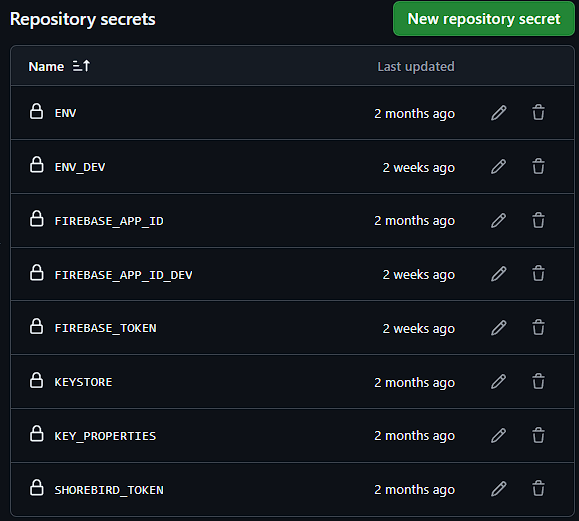
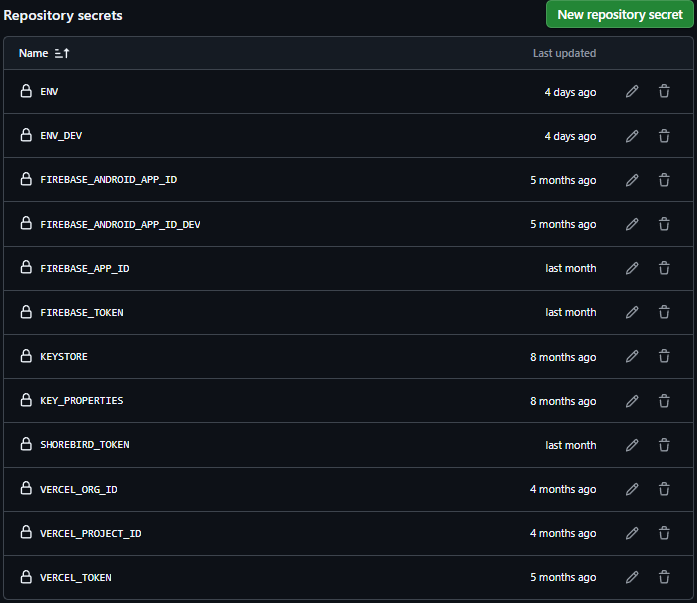
docs(readme): update development guide

Changed region(s): [[0.0, 0.0, 1.0, 1.0], [0.6528, 0.4914, 0.8705, 0.5528]]

diff --git a/README.md b/README.md
@@ -4,6 +4,10 @@ Anilist is a simple and delightful app for anime fans. Whether you're organizing
 The app offers several handy features to enhance your daily anime browsing. You can discover new anime instantly with the Random Anime feature, search anime titles easily using speech-to-text Voice Search & enjoy a comfortable night viewing with the built-in Dark Mode. Anilist also supports multiple languages, making it accessible for anime fans across the world.
 
 Anilist is built with Flutter using the Bloc pattern and integrates various Firebase services for core functionality, such as authentication, firestore, remote config, etc. Meanwhile, local storage is handled with SQFLite and Shared Preferences. Anilist is also integrated with various 3rd party service such as Jikan Moe API for anime list & shorebird for  code push.
+
+## Download & Access
+- [Play Store](https://play.google.com/store/apps/details?id=com.anilist.android)
+- [Web App](https://anilist.xrescode.my.id)
  
 ## Tech Stack
 - [Flutter](https://flutter.dev/)
@@ -19,16 +23,14 @@ Anilist is built with Flutter using the Bloc pattern and integrates various Fire
   - Messaging
   - Remote Config
   - App Distribution
-  - Hosting
 
 ## Tools
 - [GitHub](https://github.com/) - Version Control System
 - [GitHub Actions](https://github.com/features/actions) - CI/CD
-- [ClickUp](https://lowpriority.atlassian.net) - Project Management  
+- [ClickUp](https://clickup.com/) - Project Management  
   ↳ [Board](https://sharing.clickup.com/90181182112/b/h/6-901807732402-2/b7eded0a165f1b1)
 - [Postman](https://www.postman.com/) - API Collection  
   ↳ [Collection](https://www.postman.com/resdev-3827892/anilist/collection/aphktk6/jikan-moe?action=share&creator=44337202)
-
 
 ## Third-Party Integrations
 - [Jikan Moe API](https://jikan.moe/)
@@ -41,11 +43,12 @@ Anilist is built with Flutter using the Bloc pattern and integrates various Fire
 > This project is available for personal use and contributions through pull requests. Commercial use of this project is strictly prohibited. Please read [LICENSE](LICENSE.md) for more details.
 
 ### Requirement
-- [Flutter SDK v3.24.3 stable](https://docs.flutter.dev/get-started/install)
+- [Flutter SDK v3.35.3 stable](https://docs.flutter.dev/get-started/install)
 - [Firebase Project](https://console.firebase.google.com/)  
    ℹ This project uses **two** **Firebase** projects, **prod** and **dev**. If you don't plan to publish the project, it's fine to set up **one** **Firebase** project, which we'll consider as the dev environment in this guide.
 - [Firebase CLI](https://firebase.google.com/docs/cli)
-- (Optional) [Shorebird](https://console.shorebird.dev/)
+- (Optional) [Shorebird](https://shorebird.dev/)
+- (Optional) [Vercel](https://vercel.com/)
 
 ### Step
 
@@ -69,10 +72,12 @@ Anilist is built with Flutter using the Bloc pattern and integrates various Fire
 4. #### Set up env
     4.1. In the root project directory, create .env and or .env.dev files depending on your firebase project.
 
-    4.2. Open [.env.dev](.env.dev) and fill the file with code below. You will find those value at [firebase_options.dart](firebase_options.dart). Also do the same at [.env](.env).
+    4.2. Open [.env.dev](.env.dev) and fill the file with code below. You will find those value at [firebase_options.dart](lib/firebase_options.dart). Also do the same at [.env](.env).
       ```
-      firebaseApiKey='AIzaSyCUxxxxxxxxxxxxx'
-      firebaseAppId='1:8xxxxxxx6166:android:264acxxxxxxxxxxd7'
+      firebaseAndroidApiKey='AIzaSyCUxxxxxxxxxxxxx'
+      firebasfirebaseAndroidAppIdeAppId='1:8xxxxxxx6166:android:264acxxxxxxxxxxd7'
+      firebaseWebApiKey='AIzaSyCUxxxxxxxxxxxxx'
+      firebaseWebAppId='1:8xxxxxxx6166:android:264acxxxxxxxxxxd7'
       firebaseMessagingSenderId='82xxxxxxx66'
       firebaseProjectId='anilxxxxx06'
       firebaseStorageBucket='anilxxxxxx6.firebasestorage.app'
@@ -88,24 +93,44 @@ Anilist is built with Flutter using the Bloc pattern and integrates various Fire
       ```
       ℹ It's recommended to set **"override"** to false again if you want to use CI/CD later.
 
-    4.4. Open [firebase_options.dart](firebase_options.dart) and replace code below
+    4.4. Open [firebase_options.dart](lib/firebase_options.dart) and replace code below
       ```dart
+      static FirebaseOptions web = FirebaseOptions(
+        apiKey: 'AIzaSyCUxxxxxxxxxxxxx',
+        appId: '1:8xxxxxxx6166:android:264acxxxxxxxxxxd7',
+        messagingSenderId: '82xxxxxxx66',
+        projectId: 'anilxxxxx06',
+        authDomain: 'anilxxxxx6.firebaseapp.com',
+        storageBucket: 'anilxxxxxx6.firebasestorage.app',
+        measurementId: 'G-xxxxxxxJQ0',
+      );
+      
       static FirebaseOptions android = FirebaseOptions(
-      apiKey: 'AIzaSyCUxxxxxxxxxxxxx',
-      appId: '1:8xxxxxxx6166:android:264acxxxxxxxxxxd7',
-      messagingSenderId: '82xxxxxxx66',
-      projectId: 'anilxxxxx06',
-      storageBucket: 'anilxxxxxx6.firebasestorage.app',
+        apiKey: 'AIzaSyCUxxxxxxxxxxxxx',
+        appId: '1:8xxxxxxx6166:android:264acxxxxxxxxxxd7',
+        messagingSenderId: '82xxxxxxx66',
+        projectId: 'anilxxxxx06',
+        storageBucket: 'anilxxxxxx6.firebasestorage.app',
       );
       ```
       to
       ```dart
+      static FirebaseOptions web = FirebaseOptions(
+        apiKey: Env.firebaseWebApiKey,
+        appId: Env.firebaseWebAppId,
+        messagingSenderId: Env.firebaseMessagingSenderId,
+        projectId: Env.firebaseProjectId,
+        authDomain: Env.firebaseAuthDomain,
+        storageBucket: Env.firebaseStorageBucket,
+        measurementId: Env.firebaseMeasurementId,
+      );
+
       static FirebaseOptions android = FirebaseOptions(
-      apiKey: Env.firebaseApiKey,
-      appId: Env.firebaseAppId,
-      messagingSenderId: Env.firebaseMessagingSenderId,
-      projectId: Env.firebaseProjectId,
-      storageBucket: Env.firebaseStorageBucket,
+        apiKey: Env.firebaseApiKey,
+        appId: Env.firebaseAppId,
+        messagingSenderId: Env.firebaseMessagingSenderId,
+        projectId: Env.firebaseProjectId,
+        storageBucket: Env.firebaseStorageBucket,
       );
       ```
 
@@ -141,11 +166,6 @@ Anilist is built with Flutter using the Bloc pattern and integrates various Fire
 
           ```
 
-    - **(Optional) Hosting**  
-      If you plan to use Firebase Hosting for a website, you can enable it through the Firebase Console.  
-
-      ℹ Delete [.firebase_hosting](.firebase_hosting) if you don't use Hosting.
-
     - **(Optional) Remote Config**  
       Remote Config used for checking a live version on production.  
       
@@ -172,7 +192,7 @@ Anilist is built with Flutter using the Bloc pattern and integrates various Fire
         description: LocaleKeys.upload_expiry_notice,
         infoText: LocaleKeys.upload_overwrite_warning,
         onTapOk: () {
-          Navigator.pop(context);
+          context.pop(context);
 
           _pendingCloudAction = () {
             _myListBloc.add(UploadMyListEvent());
@@ -223,20 +243,41 @@ Anilist is built with Flutter using the Bloc pattern and integrates various Fire
     ```
 
 7. #### (Optional) Set up Shorebird
-    Run the following command at the root of the project:
-    ```sh
-    shorebird init --force
-    ```
+    1. [Install Shorebird CLI](https://docs.shorebird.dev/getting-started/)
+
+    2. Init Shorebird
+
+        Run the following command at the root of the project:
+        ```sh
+        shorebird init --force
+        ```
 
     ℹ Delete [shorebird.yaml](shorebird.yaml) if you don't use shorebird
+    
+    ℹ Check out the [official documentation](https://docs.shorebird.dev/) if you found something difficult.
 
-8. #### (Optional) Set up Github Actions
+8. #### (Optional) Set up Vercel
+    1. [Install Vercel CLI](https://vercel.com/docs/cli)
+
+    2. Link the project to a vercel project
+
+        Run the following command at the root of the project:
+        ```sh
+        vercel
+        ```
+
+        Once set up, a new .vercel folder will be added to your directory. Copy the .vercel folder to [web folder](web).
+
+    ℹ Check out the [official documentation](https://vercel.com/docs) if you found something difficult.
+
+9. #### (Optional) Set up Github Actions
    - Set up Github Secrets  
 
       ![github_scecrets](assets/readme/github_secrets.png)  
 
-      ℹ Remove **ENV, FIREBASE_APP_ID, KEYSTORE, KEY_PROPERTIES** if you don't have prod environment.  
-      ℹ Remove **SHOREBIRD_TOKEN** if you don't set up shorebird.
+      ℹ Exclude **ENV, FIREBASE_APP_ID, KEYSTORE, KEY_PROPERTIES** if you don't have prod environment.  
+      ℹ Exclude **SHOREBIRD_TOKEN** if you don't set up shorebird.  
+      ℹ Exclude **VERCEL** related secrets if you don't set up vercel.
 
       You will find those value from the following guide  
 
@@ -270,10 +311,14 @@ Anilist is built with Flutter using the Bloc pattern and integrates various Fire
       shorebird login:ci
       ```
 
-   - If you don't have prod environment, delete [release.yml](.github/workflows/release.yml) and [patch.yml](.github/workflows/patch.yml)
-    
-    - If you don't set up Firebase Hosting, delete [firebase_hosting.yml](.github/workflows/firebase_hosting.yml)
+      • **VERCEL_ORG_ID, VERCEL_PROJECT_ID**  
+      Find those value from [.vercel/project.json](.vercel/project.json) or [web/.vercel/project.json](web/.vercel/project.json)
 
+      • **VERCEL_TOKEN**  
+      Create the token [here](https://vercel.com/account/settings/tokens)        
+
+   - If you don't have prod environment, delete [release.yml](.github/workflows/release.yml), [patch.yml](.github/workflows/patch.yml) and [deploy_web.yml](.github/workflows/deploy_web.yml)
+    
     - If you don't set up Firebase App Distribution, remove the following code from [release-candidate.yml](.github/workflows/release-candidate.yml) 
 
       ```yml
@@ -341,6 +386,12 @@ Anilist is built with Flutter using the Bloc pattern and integrates various Fire
             flutter build apk --release --flavor prod --dart-define=FLAVOR=prod --split-debug-info=symbols --obfuscate
             flutter build aab --release --flavor prod --dart-define=FLAVOR=prod --split-debug-info=symbols --obfuscate 
         ```
+
+    - If you don't set up Vercel  
+
+      • Delete [deploy_preview_web.yml](.github/workflows/deploy_preview_web.yml)
+      
+      • Delete [deploy_web.yml](.github/workflows/deploy_web.yml)
 
 ### Optional
 
